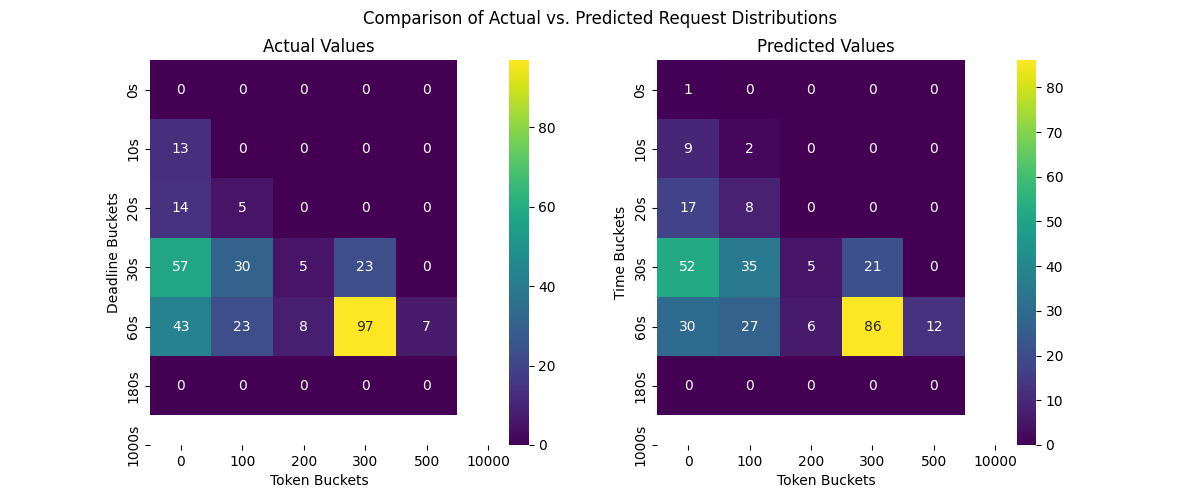
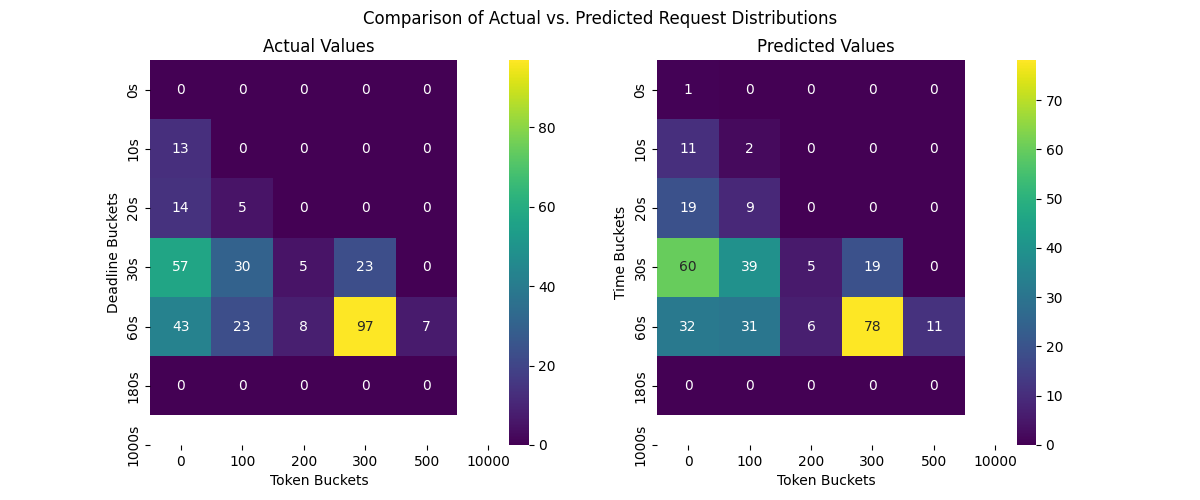
modify predictor/add vllm

diff --git a/predictor.py b/predictor.py
@@ -7,6 +7,8 @@ from sklearn.ensemble import RandomForestRegressor
 from sklearn.model_selection import train_test_split
 from sklearn.metrics import mean_squared_error, mean_absolute_error, r2_score
 from sklearn.model_selection import GridSearchCV
+from sklearn.metrics import make_scorer
+from sklearn.linear_model import LinearRegression
 
 time_labels = ['0s', '10s', '20s', '30s', '60s', '180s', '1000s']
 token_labels = [0, 100, 200, 300, 500, 10000]
@@ -29,16 +31,44 @@ def create_features_labels(df, history_window=10, prediction_window=60):
         future_data = df[(df['TIMESTAMP']>end_time) &(df['TIMESTAMP']<future_end_time)]
 
         # Calculate features from history_data
-        feature_vector = [
-            history_data['GeneratedTokens'].mean() if not history_data.empty else 0,
-            history_data['GeneratedTokens'].std(ddof=0) if not history_data.empty else 0,
-            history_data['GeneratedTokens'].max() if not history_data.empty else 0,
-            history_data['GeneratedTokens'].min() if not history_data.empty else 0,
-            history_data['GeneratedTokens'].sum() if not history_data.empty else 0,
-            len(history_data)
-        ]
-        features.append(feature_vector)
+        feature_vector = [0] * 9
+        if not history_data.empty:
+            # Basic statistical calculations
+            mean_tokens = history_data['GeneratedTokens'].mean()
+            std_tokens = history_data['GeneratedTokens'].std(ddof=0)
+            max_tokens = history_data['GeneratedTokens'].max()
+            min_tokens = history_data['GeneratedTokens'].min()
+            sum_tokens = history_data['GeneratedTokens'].sum()
+            count_tokens = len(history_data)
+            coef_variation = std_tokens / mean_tokens if mean_tokens != 0 else 0
 
+            # Update feature vector with calculated values
+            vector = [
+                mean_tokens,  # Mean of generated tokens
+                std_tokens,   # Standard deviation of generated tokens
+                max_tokens,   # Maximum of generated tokens
+                min_tokens,   # Minimum of generated tokens
+                sum_tokens,   # Sum of generated tokens
+                count_tokens, # Count of data points
+                coef_variation  # Coefficient of variation
+            ]
+            feature_vector[:7]=vector
+
+            # Calculate gradient (first derivative)
+            time_diffs = (history_data['TIMESTAMP'] - history_data['TIMESTAMP'].shift()).dt.seconds.fillna(0)
+            token_diffs = history_data['GeneratedTokens'].diff().fillna(0)
+            gradients = (token_diffs / time_diffs.replace(0, np.inf)).fillna(0)
+            mean_gradient = gradients.mean()
+            feature_vector[7]= mean_gradient
+
+            # Calculate linear trend (slope)
+            lr = LinearRegression()
+            timestamps = (history_data['TIMESTAMP'] - history_data['TIMESTAMP'].min()).dt.total_seconds().values.reshape(-1, 1)
+            lr.fit(timestamps, history_data['GeneratedTokens'].values.reshape(-1, 1))
+            trend_slope = lr.coef_[0][0]
+            feature_vector[8]=trend_slope  
+
+        features.append(feature_vector)    
         deadline_bins = end_time + pd.to_timedelta(time_labels)  
         token_bins = token_labels
 
@@ -73,18 +103,22 @@ X_train, X_test, y_train, y_test = train_test_split(X, y, test_size=0.2, random_
 
 model = RandomForestRegressor(random_state=42)
 param_grid = {
-    'n_estimators': [100],
+    'n_estimators': [100, 200],
     'max_features': ['auto', 'sqrt', 'log2'],
-    'max_depth': [None, 10],
+    'max_depth': [None, 10, 50],
     'min_samples_split': [2, 5, 10],
     'min_samples_leaf': [1, 2, 4]
 }
 
+def max_absolute_error(y_true, y_pred):
+    return np.max(np.abs(y_true - y_pred))
+
+max_ae_scorer = make_scorer(max_absolute_error, greater_is_better=False)
 # Setup the grid search
-grid_search = GridSearchCV(estimator=model, param_grid=param_grid, cv=3, verbose=2, n_jobs=-1, scoring='neg_mean_squared_error')
+grid_search = GridSearchCV(estimator=model, param_grid=param_grid, cv=3, verbose=2, n_jobs=-1, scoring=max_ae_scorer)
 grid_search.fit(X_train, y_train.reshape(y_train.shape[0], -1))
 print(f"Best parameters: {grid_search.best_params_}")
-print(f"Best RMSE: {np.sqrt(-grid_search.best_score_)}")
+print(f"Best MaxAE: {-grid_search.best_score_}")
 
 # Use the best estimator to make predictions
 best_model = grid_search.best_estimator_
@@ -95,12 +129,14 @@ if y_test.ndim > 2:
 
 if predictions.ndim > 2:
     predictions = predictions.reshape(predictions.shape[0], -1)  # Flatten each sample into a 1D array
-    
+
+max_ae = max_absolute_error(y_test, predictions)    
+mae = mean_absolute_error(y_test, predictions)
 mse = mean_squared_error(y_test, predictions)
 rmse = np.sqrt(mse)
-mae = mean_absolute_error(y_test, predictions)
 r2 = r2_score(y_test, predictions)
 
+print(f"Maximum Absolute Error (MaxAE): {max_ae:.2f}")
 print(f"Mean Squared Error (MSE): {mse:.2f}")
 print(f"Root Mean Squared Error (RMSE): {rmse:.2f}")
 print(f"Mean Absolute Error (MAE): {mae:.2f}")

diff --git a/systems/vllm/profile_vllm.py b/systems/vllm/profile_vllm.py
@@ -1,0 +1,26 @@
+from modelscope.hub.api import HubApi
+from vllm import LLM, SamplingParams
+import os
+
+access_token = os.getenv('ACCESS_TOKEN')
+if access_token is None:
+    raise ValueError("ACCESS_TOKEN environment variable not set.")
+
+api = HubApi()
+api.login(access_token)
+
+prompts = [
+    "Hello, my name is",
+    "The president of the United States is",
+    "The capital of France is",
+    "The future of AI is",
+]
+sampling_params = SamplingParams(temperature=0.8, top_p=0.95)
+llm = LLM(model="facebook/opt-125m")
+
+outputs = llm.generate(prompts, sampling_params)
+
+for output in outputs:
+    prompt = output.prompt
+    generated_text = output.outputs[0].text
+    print(f"Prompt: {prompt!r}, Generated text: {generated_text!r}")
